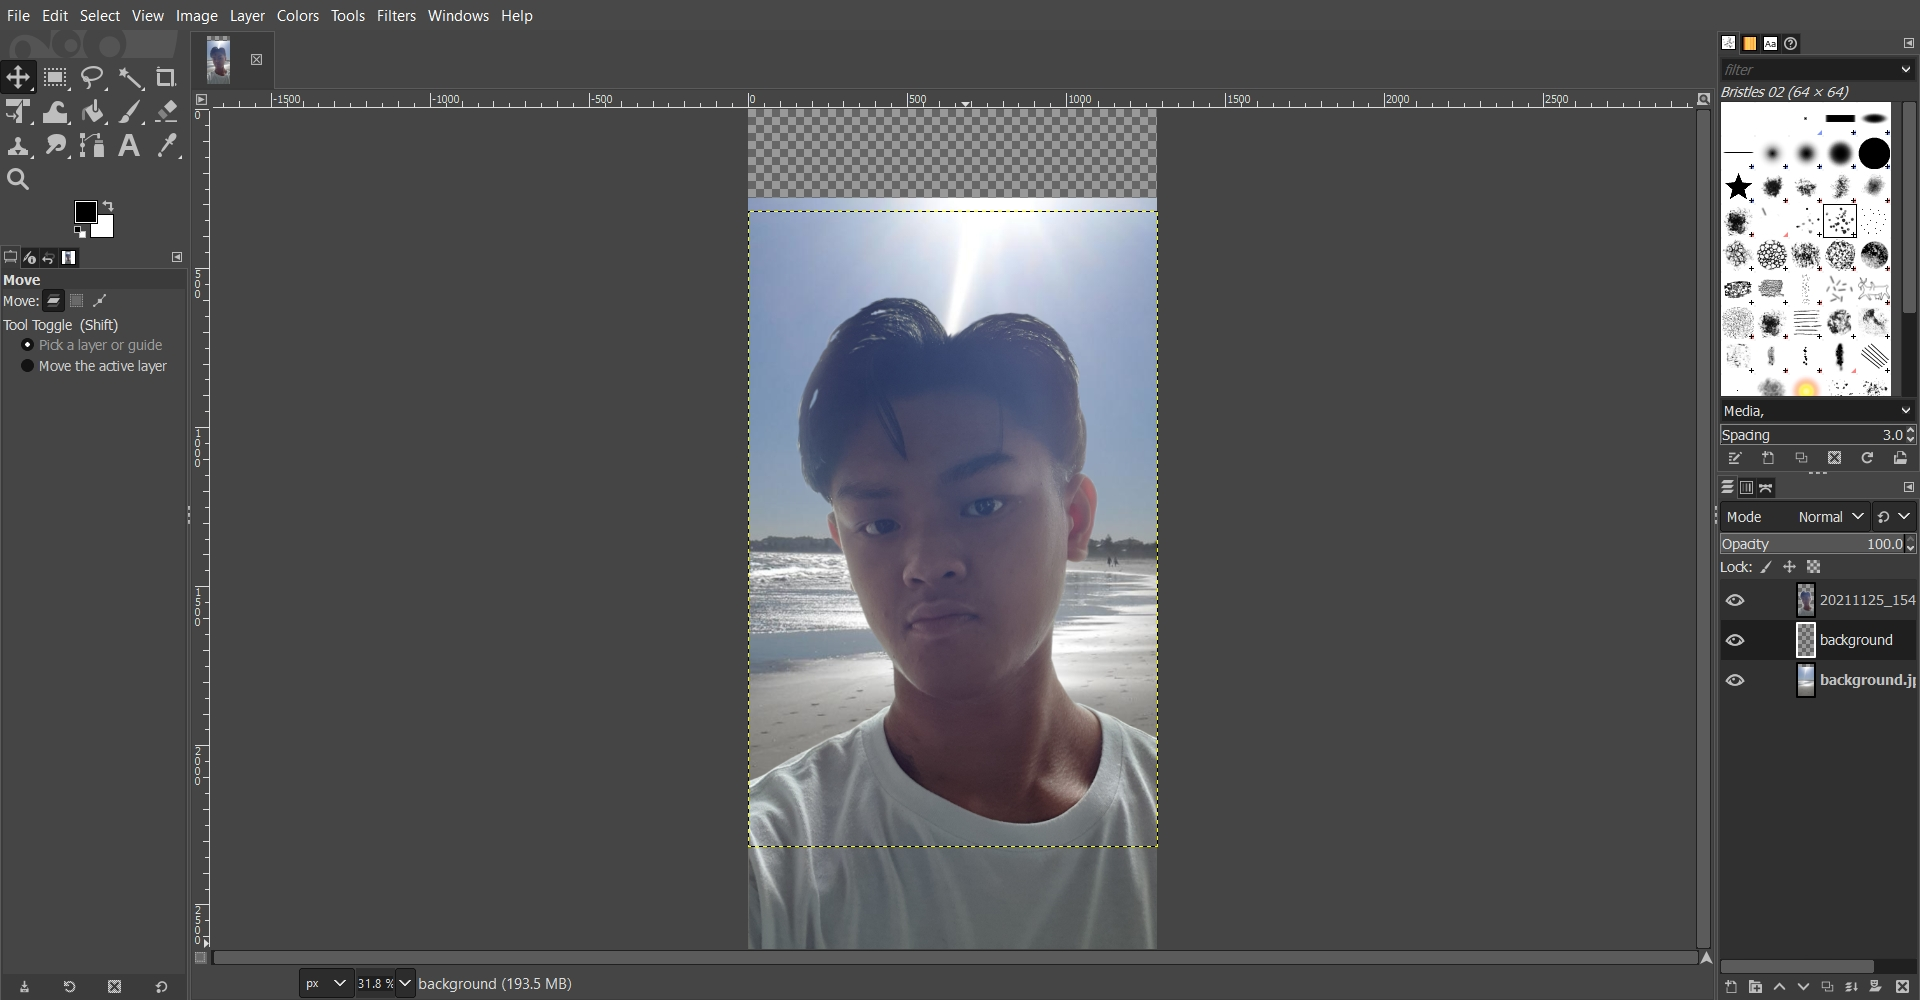
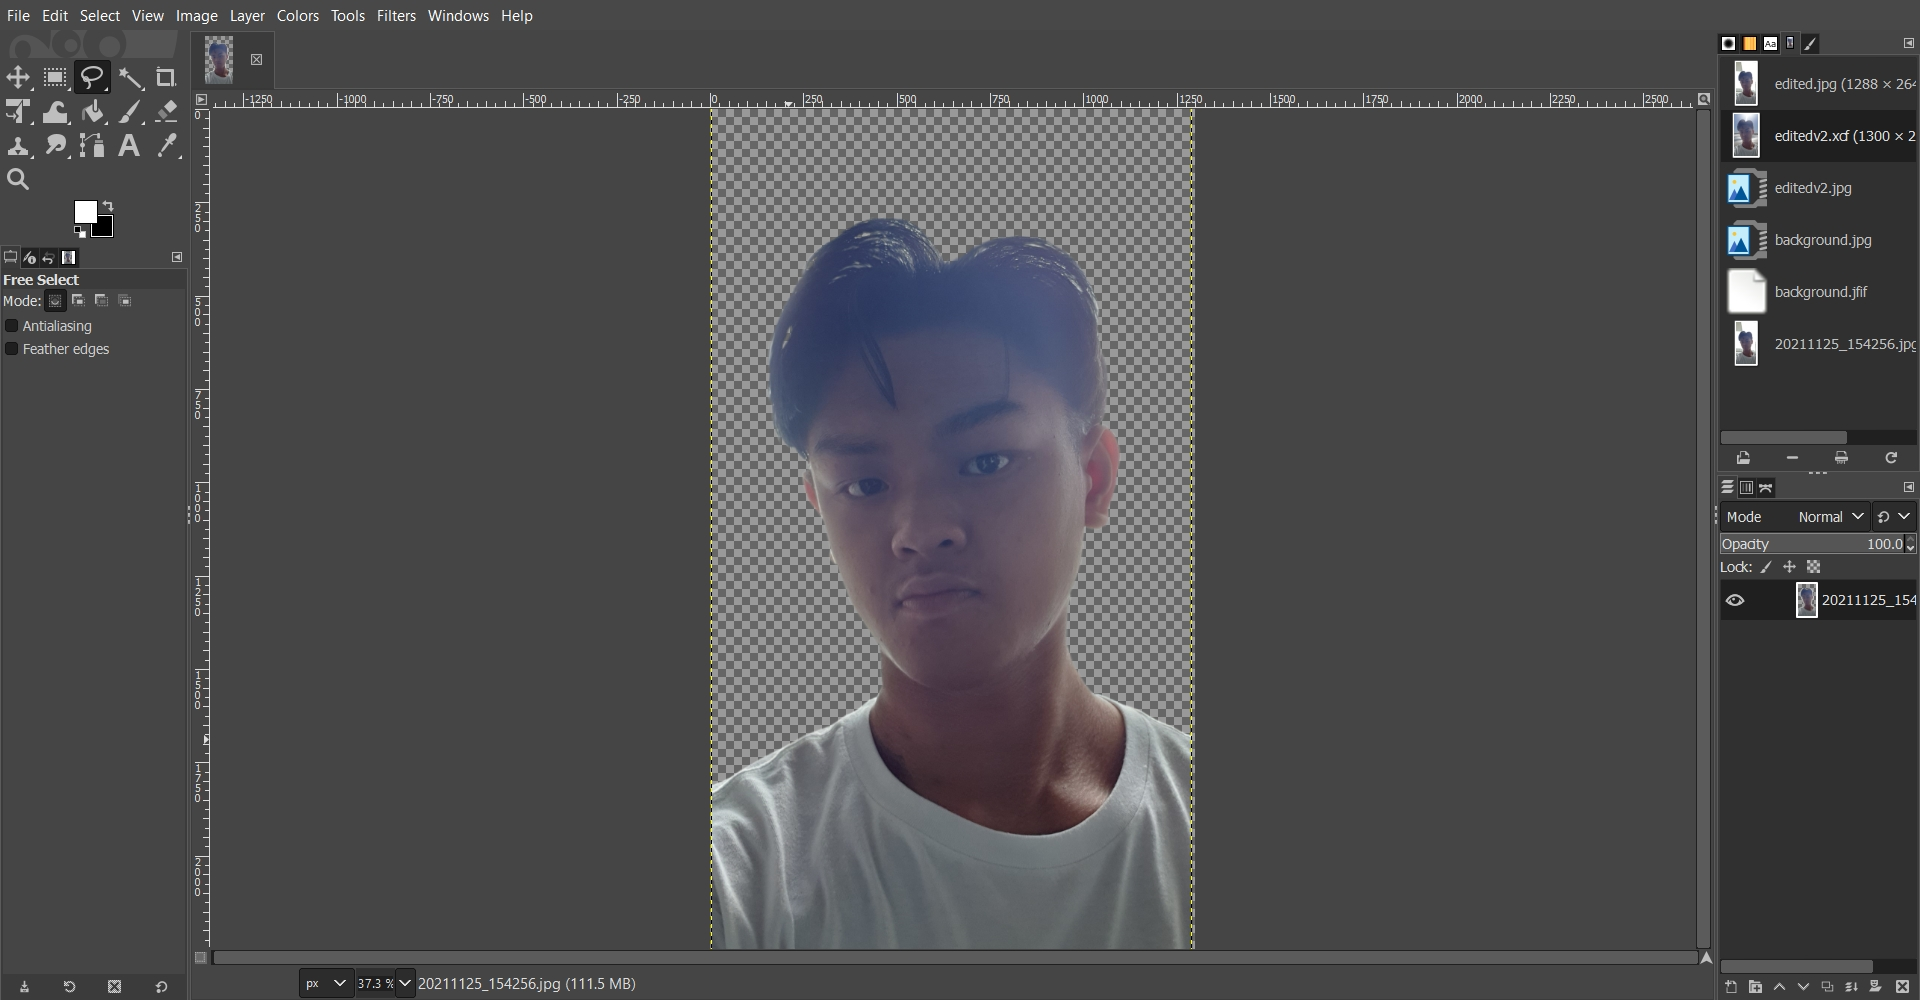
Updates for today

diff --git a/projects/computer_graphics.html b/projects/computer_graphics.html
@@ -66,6 +66,94 @@
         Note: Knowing that I will be editing my selfie onto a beach background,
         I would take my photo with natural sunlight.
       </div>
+      <div id="box">
+        Step 2: Adding my selfie into GIMP.<br>
+        <img id="horiImg" src="../images/raster_graphics/raster_step1.jpg">
+      </div>
+      <div id="box">
+        Step 3: Removing the background of my selfie<br>
+        <img id="horiImg" src="../images/raster_graphics/raster_step2.jpg">
+      </div>
+      <div id="box">
+        Step 4: Adding a background layer of the beach<br>
+        <img id="horiImg" src="../images/raster_graphics/raster_step3.jpg"><br>
+        After adding the image of the beach into GIMP, I resized it and adjust
+        the position.
+      </div>
+      <div id="box">
+        Step 5: Adding sunlight effects<br>
+        <img id="horiImg" src="../images/raster_graphics/raster_step4.jpg"><br>
+        With the sunlight effect being added to the image, it helps to blend my
+        selfie better with the background.
+      </div>
+      <div id="box">
+        Final result<br>
+        <img id="vertImg" src="../images/raster_graphics/editedv2.jpg">
+        After learning how to use GIMP, I will definitely be using it when I
+        need to do image editing and plus the software is free which is more of
+        an incentive to keep using it.
+      </div>
+      <div>
+        <h2>What is Vector Graphics</h2>
+      </div>
+      <div id="box">
+        Vector, unlike raster graphics which is made up of pixels, is made up of
+        lines, and as the image is zoomed in, it does not lose quality. The file
+        formats include, .dxf, .svg and .STEP.
+      </div>
+      <div>
+        <h2>Learning and Applying Vector Graphics</h2>
+      </div>
+      <div id="box">
+        For vector graphics, the software I will be using will be InkScape which
+        is free software and has numerous video tutorials online to learn from.
+      </div>
+      <div id="box">
+        Step 1: Selecting a image of an animal online
+        <img id="horiImg" src="../images/CAD/triceratops.jpg">
+      </div>
+      <div id="box">
+        Step 2: Inserting the image into InkScape<br>
+        <img id="horiImg" src="../images/CAD/vector_step1.jpg">
+      </div>
+      <div id="box">
+        Step 3: Turning down the opacity of the reference image<br>
+        <img id="horiImg" src="../images/CAD/vector_step2.jpg"><br>
+        Turning dow the opacity of the reference image to 50%, it will allow me
+        to trace out the Triceratops much easier in the next step.
+      </div>
+      <div id="box">
+        Step 4: Tracing the outlines of the features of the Triceratops<br>
+        <img id="horiImg" src="../images/CAD/vector_step3.jpg"><br>
+        Firstly, I traced out the tail since it is the most futhest part of the
+        Triceratops. As we move on, I will be tracing parts that are gradually
+        closer.<br>
+        <img id="horiImg" src="../images/CAD/vector_step4.jpg"><br>
+        <img id="horiImg" src="../images/CAD/vector_step5.jpg"><br>
+        <img id="horiImg" src="../images/CAD/vector_step6.jpg"><br>
+        <img id="horiImg" src="../images/CAD/vector_step8.jpg"><br>
+        <img id="horiImg" src="../images/CAD/vector_step9.jpg"><br>
+        <img id="horiImg" src="../images/CAD/vector_step7.jpg"><br>
+        <img id="horiImg" src="../images/CAD/vector_step10.jpg"><br>
+        <img id="horiImg" src="../images/CAD/vector_step11.jpg"><br>
+        <img id="horiImg" src="../images/CAD/vector_step12.jpg"><br>
+        <img id="horiImg" src="../images/CAD/vector_step13.jpg"><br>
+        <img id="horiImg" src="../images/CAD/vector_step14.jpg"><br>
+      </div>
+      <div id="box">
+        Step 5: Recolouring and final touches
+        <img id="horiImg" src="../images/CAD/vector_final.jpg">
+        After recolouring it with a nice red body and yellow underbelly, I
+        decided to create a circular light blue background to contrast with the
+        Triceratops and help to make it stand out.
+      </div>
+      <div id="box">
+        Final result<br>
+        <img id="horiImg" src="../images/logo.png"><br>
+        After learning how to use InkScape, I find it really useful whenever I
+        need to create a cool art design or a logo, and since the software is
+        free, I will be sure to keep using it.
+      </div>
     </div>
     <div id="footer">
       Copyright &copy; 2021 Jordon.

diff --git a/stylesheet.css b/stylesheet.css
@@ -134,18 +134,10 @@ img {
   padding-left: 20px;
 }
 
-
 #imgTable {
   width: 100%;
   margin: 0;
   padding: 0;
-}
-
-#box img {
-  display: block;
-  margin-left: auto;
-  margin-right: auto;
-  width: 90%;
 }
 
 #imgTable tr td img{
@@ -156,8 +148,19 @@ img {
 }
 
 #vertImg {
-  width: 100px;
+  width: 25%;
   height: auto;
+  display: block;
+  margin-left: auto;
+  margin-right:auto;
+}
+
+#horiImg {
+  width: 70%;
+  height: auto;
+  display: block;
+  margin-left: auto;
+  margin-right:auto;
 }
 
 h2 {
@@ -191,9 +194,10 @@ h2 {
   position: fixed;
   bottom: 0;
   width: 100%;
-  padding-top: 10px;
-  padding-bottom: 10px;
+  padding-top: 5px;
+  padding-bottom: 5px;
   background-color:#222;
   color:white;
   text-align:right;
+  font-size: 50%;
 }
